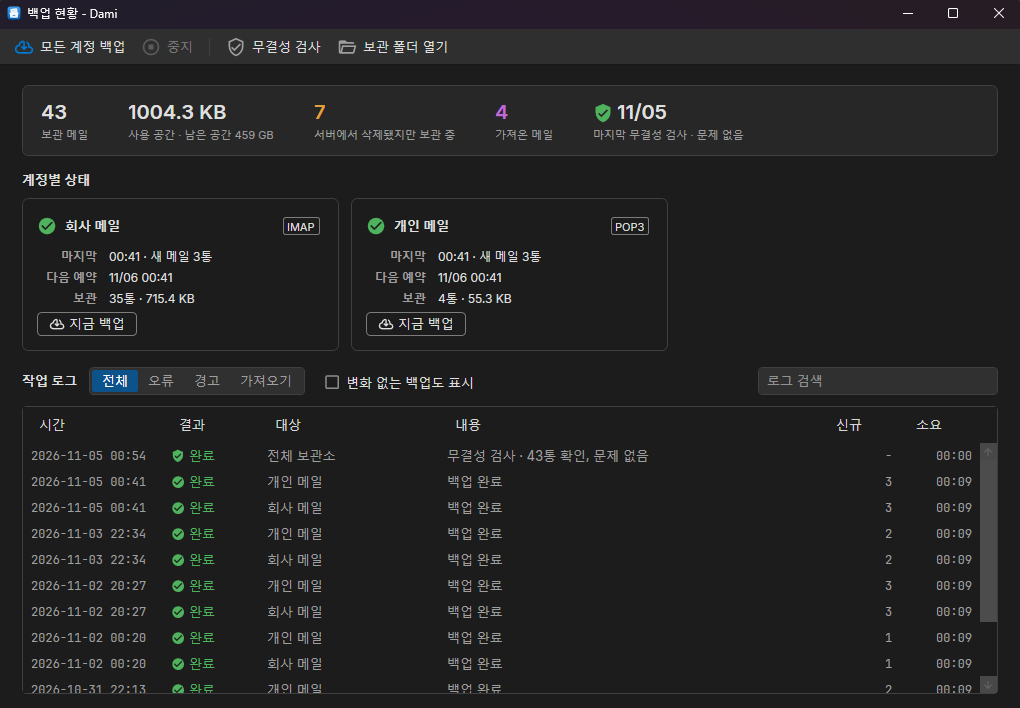
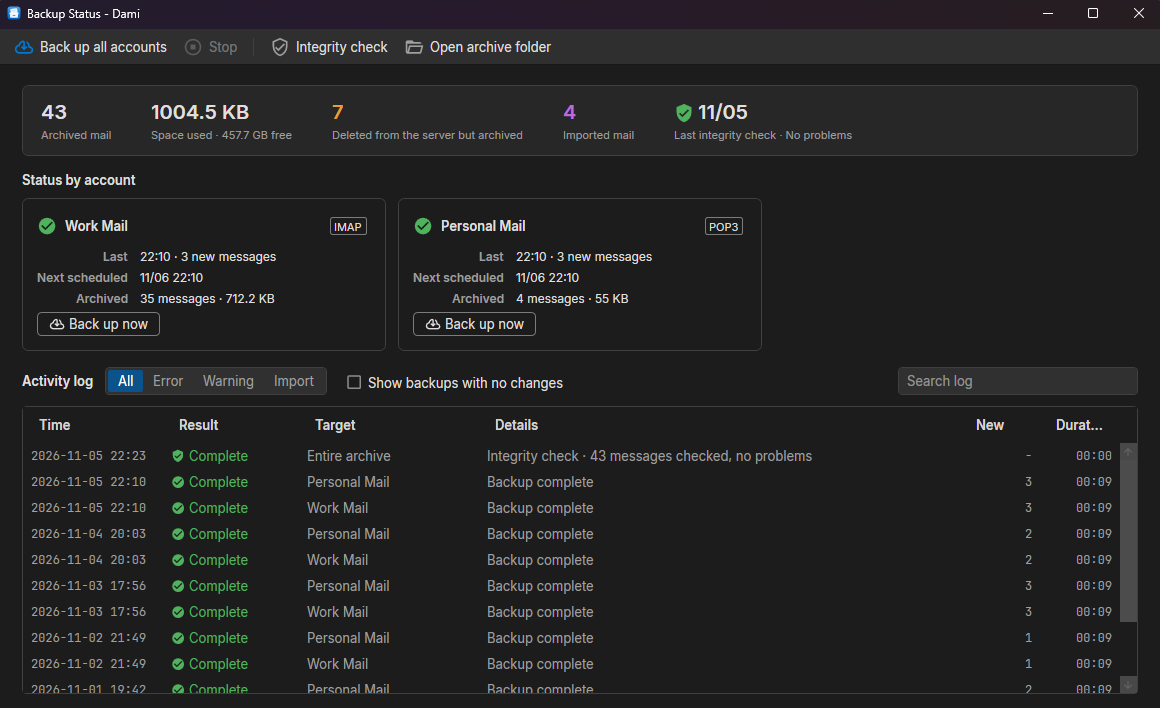
Translate README to English and replace screenshots

diff --git a/README.md b/README.md
@@ -2,106 +2,112 @@
 
 # Dami
 
-**서버에서 지워져도 남는 메일 보관함**
+**Your mail stays, even after the server deletes it**
 
-IMAP · POP3 메일을 내 PC에 영구 보관하는 Windows 프로그램입니다.
+A Windows app that keeps your IMAP and POP3 mail on your own PC, permanently.
 
-[**최신 버전 다운로드**](https://github.com/gaurilabs/dami/releases/latest)
+[**Download the latest version**](https://github.com/gaurilabs/dami/releases/latest)
 
 </div>
 
-![Dami 메일 화면](docs/images/main-dark.png)
+![Dami mail view](docs/images/main-dark.png)
 
-## 왜 Dami인가요?
+## Why Dami?
 
-메일함 용량이 차서 지운 메일, 서버 보관 기간이 지나 사라진 메일, 퇴사나 서비스 종료로 접근할 수 없게 된 메일은 다시 찾기 어렵습니다.
+Mail you deleted because your mailbox was full, mail that expired under a server retention policy, mail you lost access to when you left a job or a service shut down: all of it is hard to get back.
 
-Dami는 메일을 원본 그대로 내 PC에 쌓아 둡니다. **서버에서 메일이 지워져도 Dami에는 남고, Dami가 서버의 메일을 지우거나 바꾸는 일도 없습니다.**
+Dami keeps an exact copy of your mail on your PC. **Mail deleted from the server stays in Dami, and Dami never deletes or changes anything on the server.**
 
-## 주요 기능
+## Features
 
-### 지워져도 남습니다
+### Deleted mail stays
 
-서버에서 사라진 메일은 삭제하지 않고 `서버 삭제` 표시와 함께 계속 보관합니다. 계정마다 `서버에서 삭제됨` 폴더로 모아 볼 수 있습니다.
+Mail that disappears from the server is kept and marked `Server-deleted`. Each account has a `Deleted from server` folder that gathers it in one place.
 
-![서버에서 삭제된 메일 보기](docs/images/server-deleted.png)
+![Viewing mail deleted from the server](docs/images/server-deleted.png)
 
-### 서버는 읽기만 합니다
+### Read-only on the server
 
-- IMAP은 읽기 전용으로 접속하고, 메일을 읽음으로 표시하지도 않습니다.
-- POP3는 서버의 메일을 지우는 명령을 쓰지 않습니다.
-- 메일은 받은 원본 그대로 `.eml` 파일로 저장합니다.
+- IMAP connects in read-only mode and never marks mail as read.
+- POP3 never uses the command that deletes mail from the server.
+- Mail is saved exactly as received, as `.eml` files.
 
-### 빠른 전체 검색
+### Fast full-text search
 
-보관한 메일의 제목, 본문, 첨부 파일 이름을 계정과 기간에 상관없이 한 번에 찾습니다. 한글 검색을 지원합니다.
+Search subjects, message bodies, and attachment names across every account and date range at once. Partial-word matching works in any language, including Korean, Chinese, and Japanese.
 
-![메일 검색](docs/images/search.png)
+![Mail search](docs/images/search.png)
 
-### 예약 백업과 현황
+### Scheduled backups and status
 
-계정마다 주기를 정해 자동으로 백업합니다. 창을 닫아도 트레이에서 계속 동작하고, 전체 현황과 작업 기록을 한눈에 확인할 수 있습니다.
+Set a backup schedule for each account. Dami keeps running in the system tray after you close the window, and shows overall status and an activity log at a glance.
 
-![백업 현황](docs/images/dashboard.png)
+![Backup status](docs/images/dashboard.png)
 
-### 무결성 검사
+### Integrity checks
 
-보관한 파일이 그대로인지 SHA-256 해시로 검사합니다. 문제가 있어도 자동으로 고치거나 지우지 않으며, 사본에서 복원하거나 서버에서 다시 받는 조치를 직접 고를 수 있습니다.
+Dami verifies archived files against their SHA-256 hashes. It never fixes or deletes anything automatically: if a problem is found, you choose whether to restore from a copy or download the message from the server again.
 
-![무결성 검사](docs/images/integrity.png)
+![Integrity check](docs/images/integrity.png)
 
-### 가져오기와 내보내기
+### Import and export
 
-- **가져오기:** EML, MSG, MBOX, Thunderbird 로컬 폴더, Gmail Takeout, Outlook PST·OST
-- **내보내기:** EML(원본 그대로), MBOX
+- **Import:** EML, MSG, MBOX, Thunderbird local folders, Gmail Takeout, Outlook PST and OST
+- **Export:** EML (exact original), MBOX
 
-이전에 쓰던 메일 프로그램의 보관 파일도 하나의 보관소로 모을 수 있습니다.
+Bring the archives from your previous mail apps together in one place.
 
-### 그 밖의 기능
+### Available in 9 languages
 
-- 다크·라이트 테마
-- 메일 본문의 스크립트 항상 차단, 외부 이미지 기본 차단
-- 보관소를 다른 드라이브로 이동
-- 새 버전 자동 확인과 업데이트
+English, 한국어, 简体中文, 繁體中文, 日本語, Español, Deutsch, Français, Português (Brasil)
 
-![라이트 테마](docs/images/main-light.png)
+Dami follows your Windows language and falls back to English if that language isn't supported. To change it, go to **Settings → Display**. The new language applies when you save, and Dami restarts automatically.
 
-## 설치
+### And more
 
-1. [Releases](https://github.com/gaurilabs/dami/releases/latest)에서 `Dami_<버전>_win-x64_setup.exe`를 받습니다.
-2. 설치 파일을 실행합니다. 관리자 권한은 필요 없습니다.
-3. Dami를 실행하고 메일 계정을 추가합니다.
+- Dark and light themes
+- Scripts in mail are always blocked, and external images are blocked by default
+- Move your archive to another drive
+- Automatic update checks and updates
 
-> 설치 파일에 코드 서명이 없어 Windows SmartScreen 경고가 나올 수 있습니다. 그때는 **추가 정보 → 실행**을 누르면 됩니다.
+![Light theme](docs/images/main-light.png)
 
-v1.1.0부터는 새 버전이 나오면 앱에서 안내하고, 승인하면 자동으로 업데이트합니다.
+## Installation
 
-### 시스템 요구 사항
+1. Download `Dami_<version>_win-x64_setup.exe` from [Releases](https://github.com/gaurilabs/dami/releases/latest).
+2. Run the installer. Administrator rights aren't required.
+3. Start Dami and add your mail account.
 
-| 항목 | 내용 |
-|------|------|
-| 운영체제 | Windows 10 1809 이상, Windows 11 (x64) |
-| 런타임 | 설치 파일에 포함 |
-| 메일 본문 표시 | WebView2 런타임 (Windows 10·11에 대부분 기본 설치) |
+> The installer isn't code-signed, so Windows SmartScreen may show a warning. If it does, select **More info → Run anyway**.
 
-## 알아 두세요
+When a new version is available, Dami lets you know and updates itself once you approve.
 
-- **계정 연결:** 메일 서비스의 앱 비밀번호로 연결합니다. OAuth 로그인은 지원하지 않습니다.
-- **비밀번호:** Windows 사용자 계정에 묶인 DPAPI로 암호화해 저장합니다.
-- **데이터 위치:** `%LOCALAPPDATA%\Dami`에 저장하며, 설정에서 옮길 수 있습니다.
-- **제거해도 메일은 남습니다:** 프로그램을 제거해도 보관소와 설정은 지우지 않습니다.
-- **외부 연결:** 메일 서버와, 새 버전 확인을 위한 GitHub에만 연결합니다. 새 버전 자동 확인은 설정에서 끌 수 있습니다.
+### System requirements
 
-## 문의
+| Item | Requirement |
+|------|-------------|
+| Operating system | Windows 10 version 1809 or later, Windows 11 (x64) |
+| Runtime | Included in the installer |
+| Mail body display | WebView2 Runtime (already installed on most Windows 10 and 11 PCs) |
 
-버그 제보와 제안은 [Issues](https://github.com/gaurilabs/dami/issues)에 남겨 주세요.
+## Good to know
 
-## 라이선스
+- **Connecting accounts:** Use an app password from your mail provider. OAuth sign-in isn't supported.
+- **Passwords:** Encrypted with DPAPI, which ties them to your Windows user account.
+- **Data location:** Stored in `%LOCALAPPDATA%\Dami`. You can move it in Settings.
+- **Uninstalling keeps your mail:** Your archive and settings aren't removed when you uninstall.
+- **Network connections:** Dami connects only to your mail servers and to GitHub to check for new versions. You can turn off automatic update checks in Settings.
 
-Dami는 MIT 라이선스로 배포합니다. 이 저장소는 배포 전용이며 소스 코드는 공개하지 않습니다.
+## Support
+
+Please report bugs and share suggestions in [Issues](https://github.com/gaurilabs/dami/issues).
+
+## License
+
+Dami is distributed under the MIT License. This repository is for releases only; the source code is not public.
 
 ---
 
-<sub>화면의 계정, 인물, 메일은 모두 설명을 위한 가상 데이터입니다.</sub>
+<sub>All accounts, people, and messages shown in the screenshots are fictional.</sub>
 
 <sub>Copyright © 2026 GauriLab. All rights reserved.</sub>
